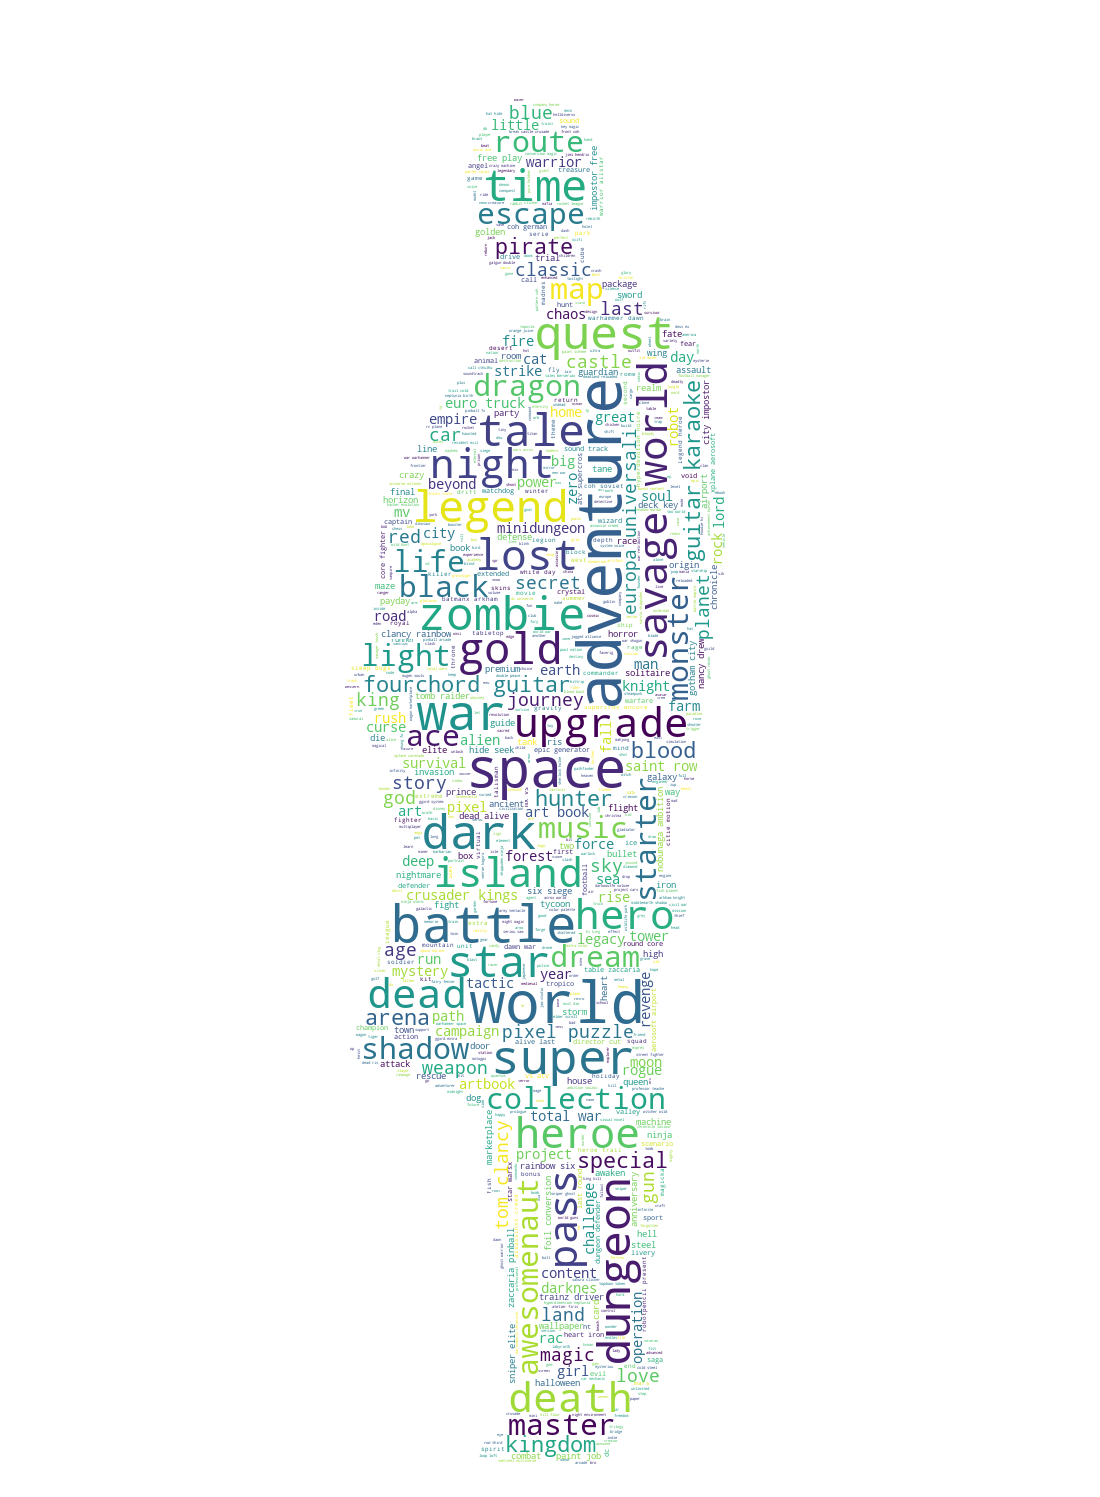
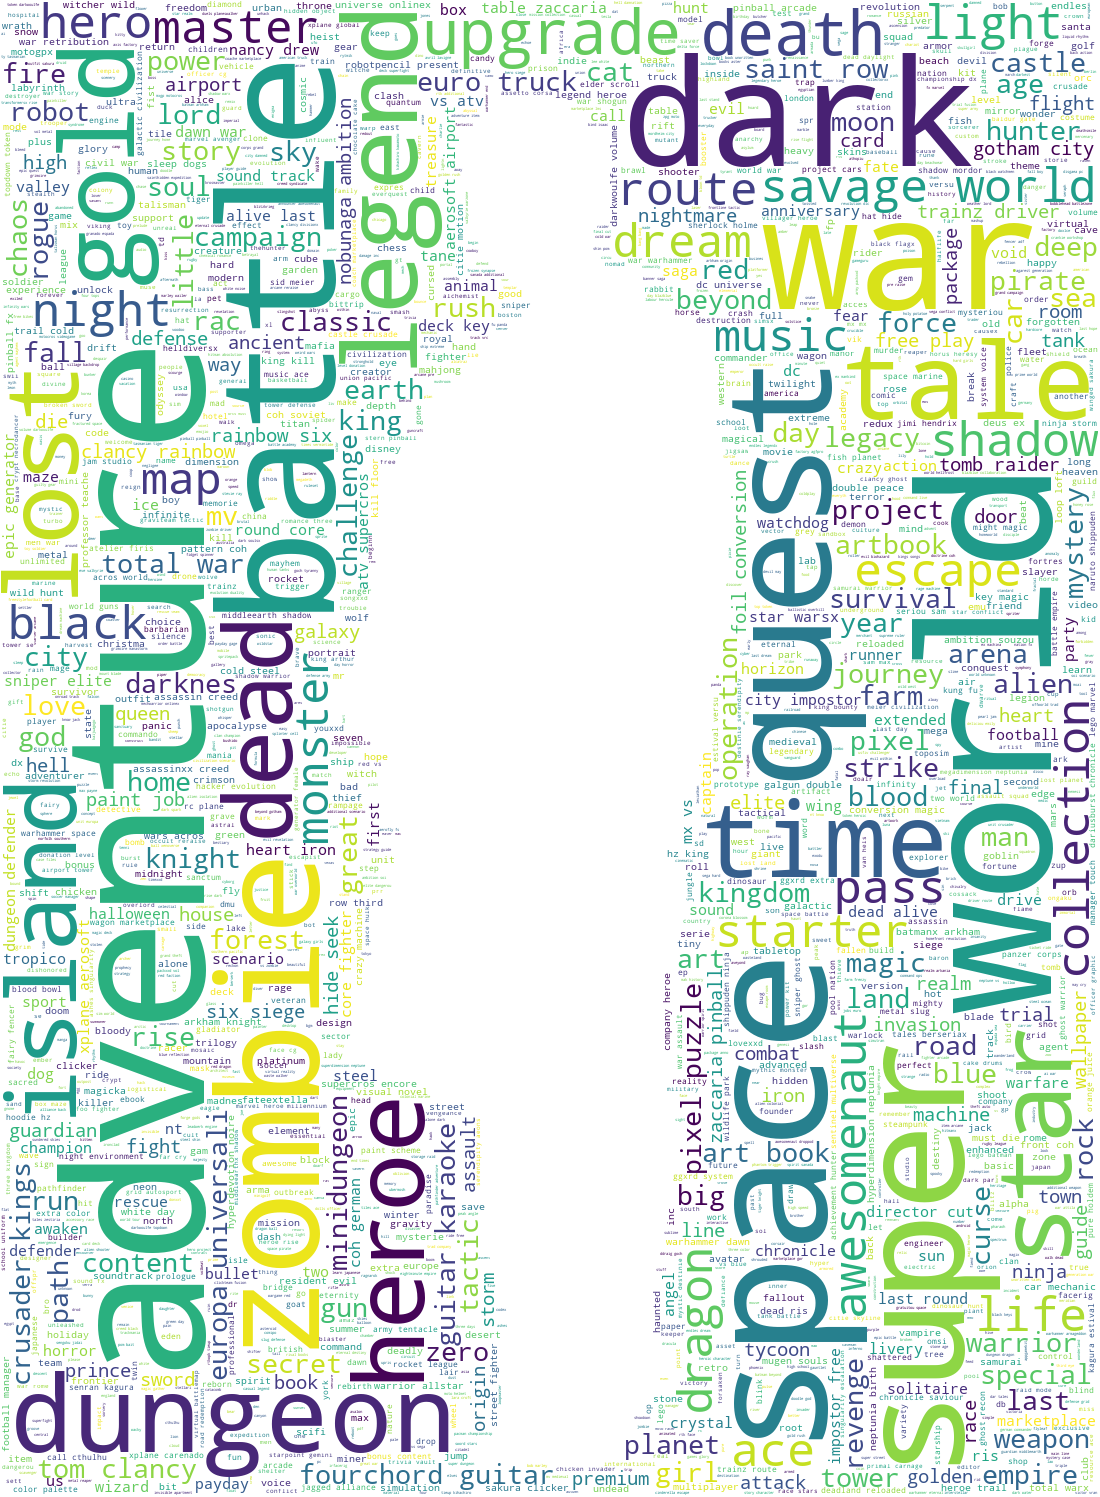
add saito asuka

diff --git a/test_wordcloud.py b/test_wordcloud.py
@@ -13,7 +13,7 @@ text = open(path.join(d, '1234.txt')).read()
 # read the mask image
 # taken from
 # http://www.stencilry.org/stencils/movies/alice%20in%20wonderland/255fk.jpg
-alice_mask = np.array(Image.open(path.join(d, "saito.jpg")))
+alice_mask = np.array(Image.open(path.join(d, "saito2.png")))
 
 stopwords = set(STOPWORDS)
 stopwords.add("said")

diff --git a/README.md b/README.md
@@ -1,3 +1,5 @@
 # DouBanDownloadPic
 DouBanPicSpiders
 Base on Python
+
+![Saito wordcloud](saito_wordcloud.png "Saito wordcloud")
